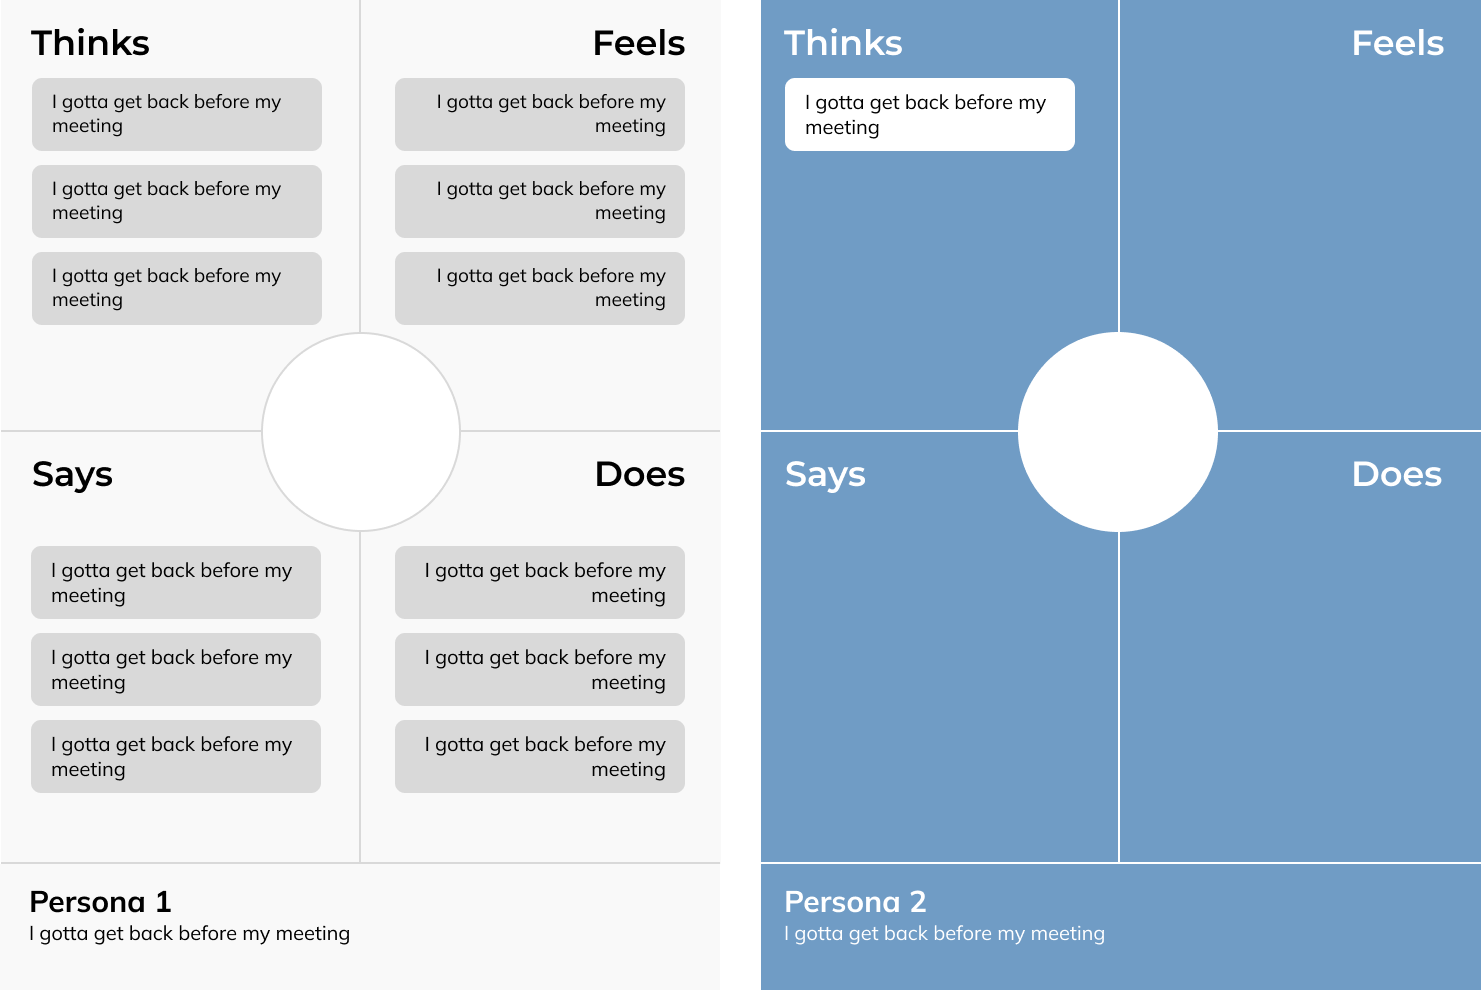
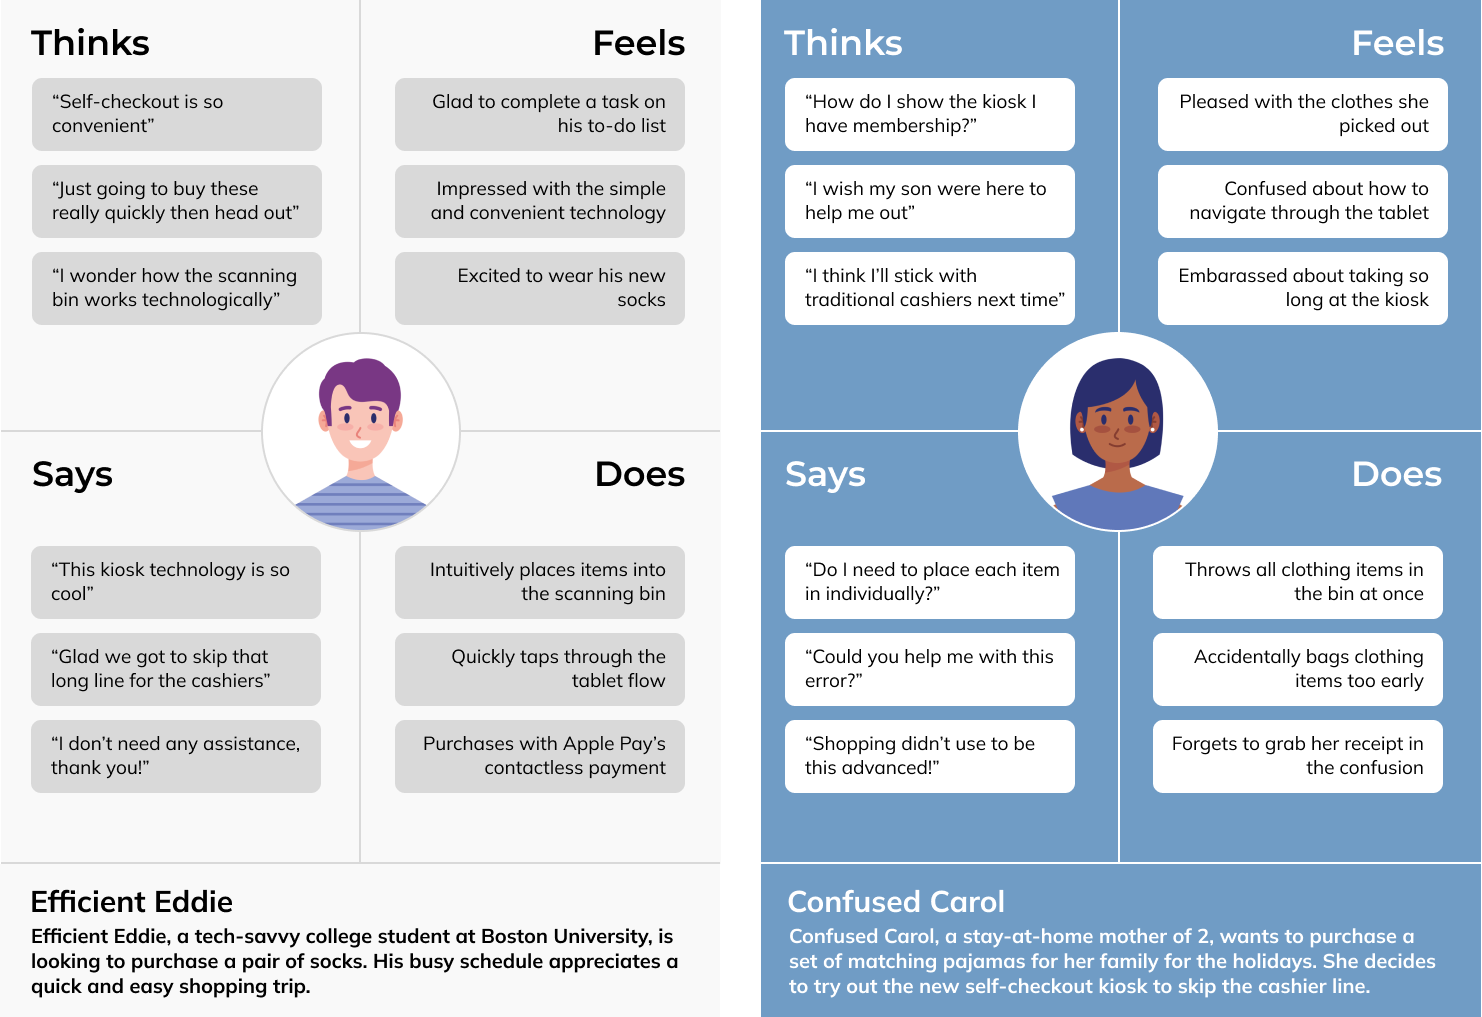
2

diff --git a/index.html b/index.html
@@ -1,5 +1,6 @@
 <!DOCTYPE html>
 <html lang="en">
+<!-- https://www.w3schools.com/howto/howto_website_bootstrap.asp --> 
 <head>
   <meta charset="utf-8">
   <meta name="viewport" content="width=device-width, initial-scale=1">
@@ -11,7 +12,7 @@
 
 <img class="header-image" src="./assets/header.jpeg" alt="ten one store">
 <div class="container">
-  <h1>Ten One Tea House Kiosk</h1>
+  <h1>Uniqlo Self-Checkout Kiosk</h1>
   <h5>PROJECT PROMPT</h5>
   <p>Step into a user's shoes. Individually, you will observe real users interacting with an interface,
     interview these individuals about their experiences, create personas based on these users, and
@@ -23,23 +24,34 @@
       <h2>Part 1 : Interface</h2>
       <div class="project-section-title-bar"></div> 
       <h5>INTERFACE SKETCH & DESCRIPTION</h5>
-      <p>For this assignment, I chose to study the --- kiosk at ---. The interface is composed of --. It is used by ---
-        to checkout. 
+      <p>For this assignment, I chose to study the self-checkout kiosk at Uniqlo, a Japanese casual wear clothing store.
+         The kiosk is composed of a bin to place clothing items, a checkout tablet, a card reader, and a receipt printer. 
+         Customers 1) press "Start" on the tablet, 2) place all clothing items into the bin (which automatically scans
+         them), 3) confirm the number of items is correct, 4) select payment and obtain receipt, and 5) bag items. 
+         This interface solves the issue of users having to scan each individual item, creating a streamlined and enjoyable experience. 
       </p>
       <div class="banner-image">
-        <img class="gallery-item" src="./assets/test.png" alt="personas" width=100%>
+        <img class="gallery-item" src="./assets/sketch.jpg" alt="sketch" width=60%>
       </div>
       <br>
 
       <h2>Part 2 : Research</h2>
       <div class="project-section-title-bar"></div> 
       <h5>OBSERVATIONS</h5>
+      <p>First, I objectively observed how users interacted with the kiosk. I was also able to
+        record a friend using the interface to capture each screen on the tablet. I recorded the following
+        observations:
+      </p>
       <ul>
+        <li>Users often had intrigued, impressed, or excited expressions to the kiosk technology.</li>
         <li>Users often spent more time on step one than step two.</li>
-        <li>Users often spent more time on step one than step two.</li>
-        <li>Users often spent more time on step one than step two.</li>
+        <li>Very few customers required staff to help figure out the kiosk.</li>
       </ul>
       <h5>INTERVIEW QUESTIONS & ANSWERS</h5>
+      <p>I then conducted interviews with 3 different users to gain a deeper understanding of
+        their motives, experiences, and expectations when using the kiosk. From the 5 questions asked,
+        I aggregated the most common responses. 
+      </p>
       <div class="banner-image">
         <img class="gallery-item" src="./assets/tester.png" alt="personas" width=100%>
       </div>
@@ -52,6 +64,7 @@
         These personas are represented through a "Thinks, Feels, Says, Does" empathy map.</p>
       <div class="banner-image">
         <img class="gallery-item" src="./assets/personas.png" alt="personas" width=100%>
+        <!-- href="https://www.flaticon.com/free-icons/people" title="people icons">People icons created by Creartive - Flaticon --> 
       </div>
       <br>
 

diff --git a/style.css b/style.css
@@ -45,7 +45,7 @@ h6 {
   font-size: 2.5rem;
   margin-top: 5rem;
   line-height: 25px;
-  font-weight: 500;
+  font-weight: 600;
 }
 
 .h2, h2 {
@@ -57,7 +57,7 @@ h6 {
 
 .h5, h5 {
   font-size: 1rem;
-  font-weight: 600;
+  font-weight: 500;
   line-height: 0px;
   letter-spacing: 2px;
   margin-top: 50px;
@@ -102,12 +102,16 @@ h6 {
   padding-right: 2rem;
   padding-top: 2rem;
   display: flex;
-	align-items: flex-start;
+	justify-content: center;
  }
 
  .space {
   width: 100%;
   height: 2rem;
   background-color: #fff;
+ }
+
+ .ul, ul {
+  font-weight: bold;
  }
 
